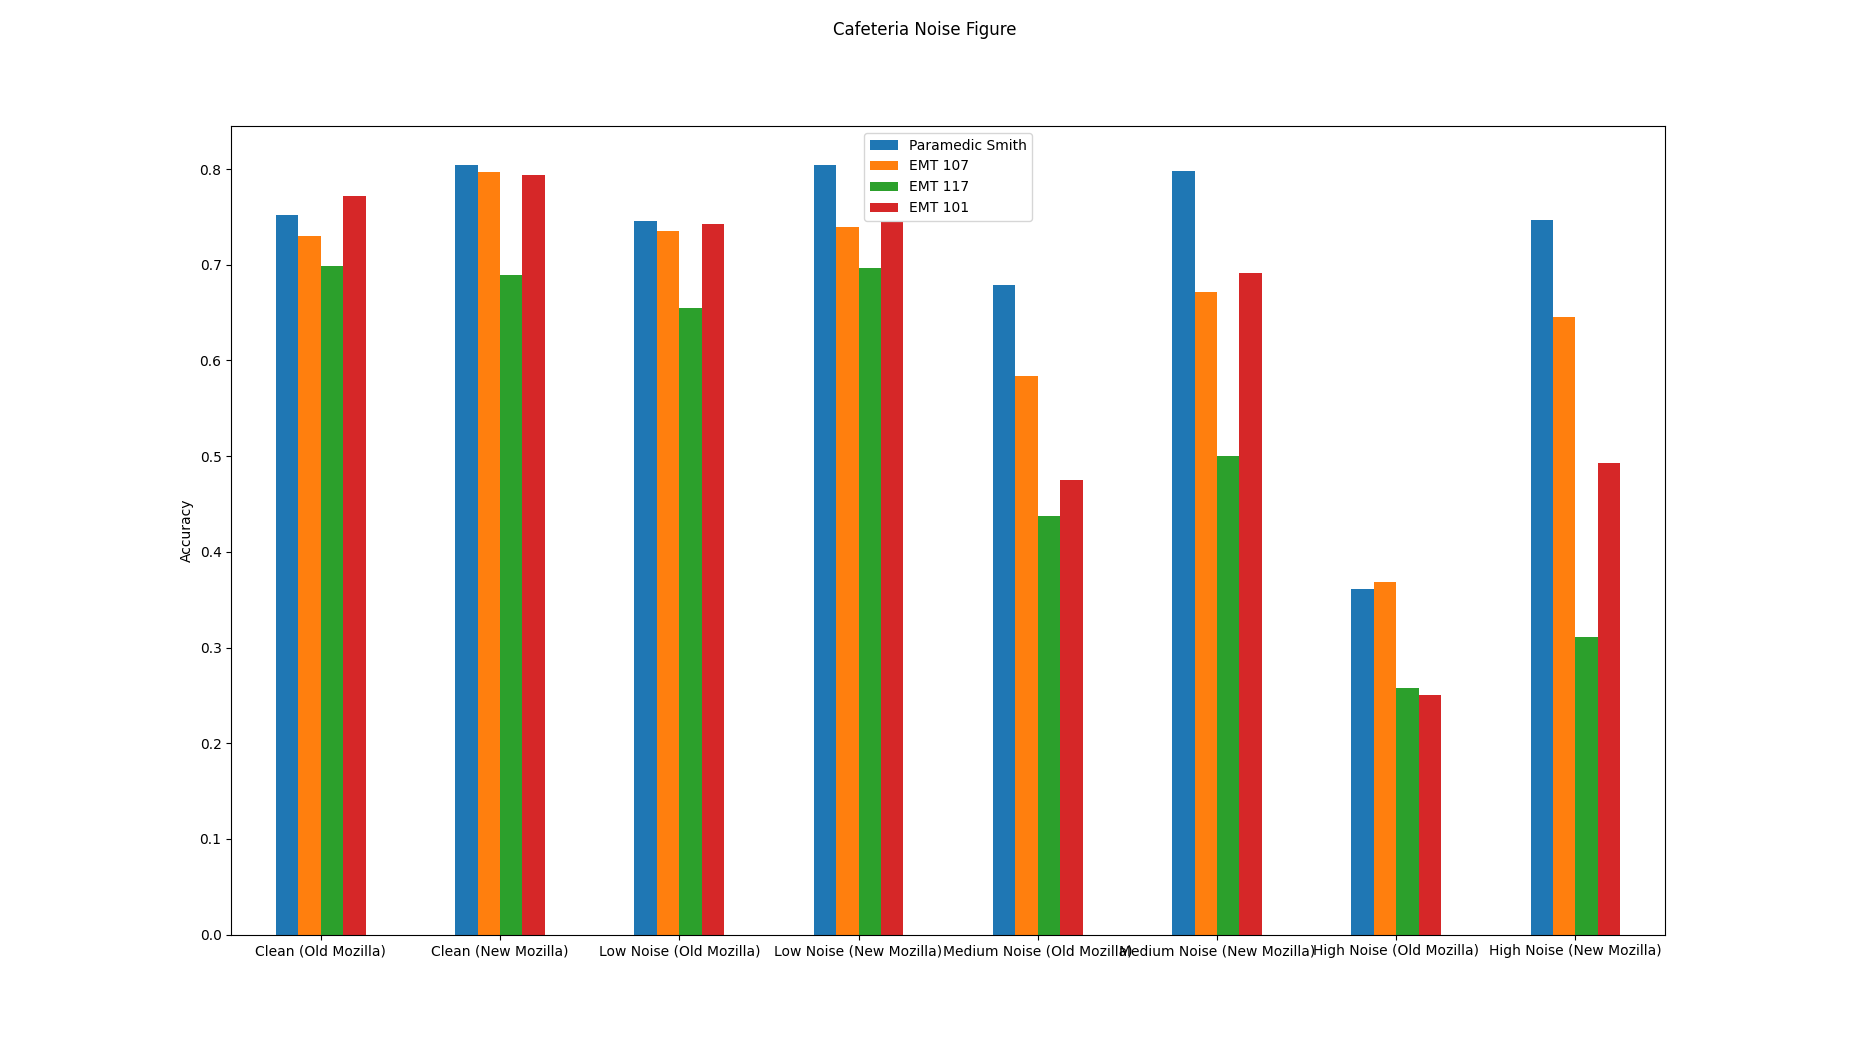
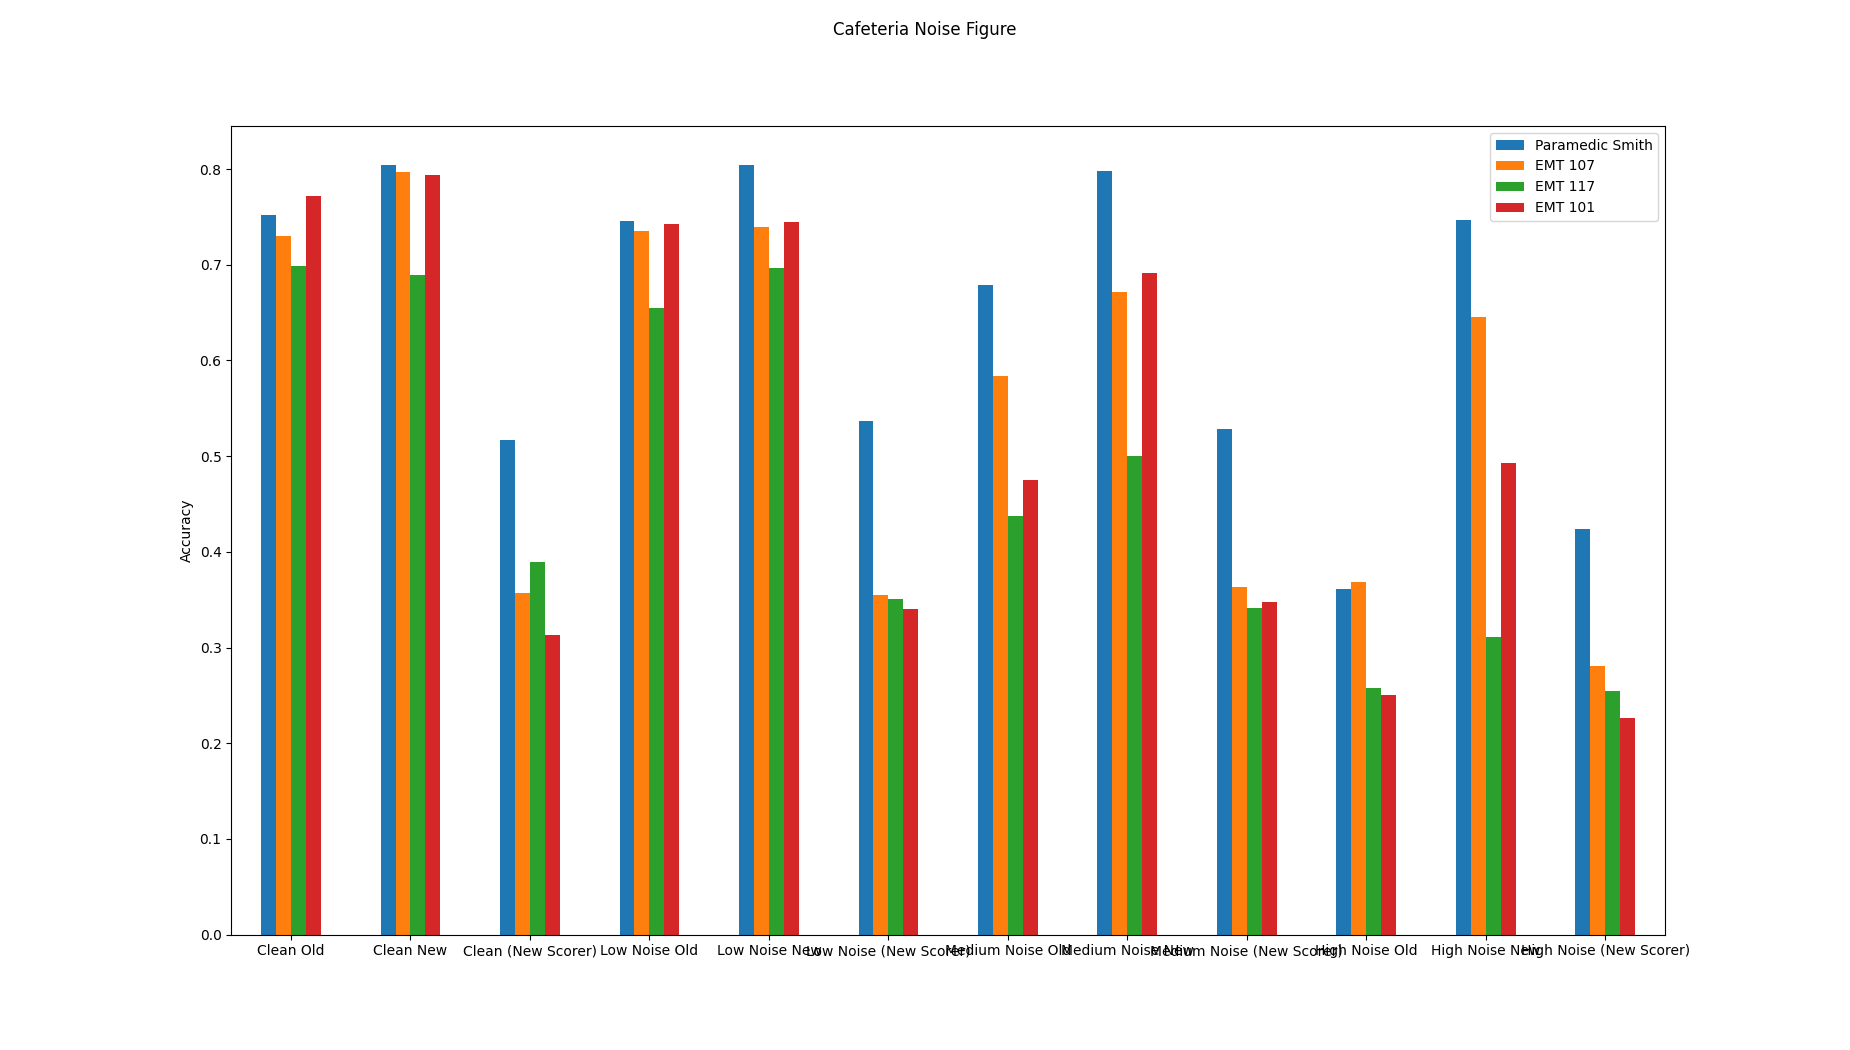
adding new scorer results

diff --git a/WER_generator_noise.py b/WER_generator_noise.py
@@ -1887,8 +1887,8 @@ if __name__ == '__main__':
     # #labels for average graph
     labels_ave = ('Cafeteria', 'People Talking', 'Sirens')
     # labels for three sub graphs
-    labels = ('Clean (Old Mozilla)', 'Clean (New Mozilla)', 'Clean (New Scorer)', 'Low Noise (Old Mozilla)', 'Low Noise (New Mozilla)', 'Low Noise (New Scorer)',
-              'Medium Noise (Old Mozilla)', 'Medium Noise (New Mozilla)', 'Medium Noise (New Scorer)', 'High Noise (Old Mozilla)', 'High Noise (New Mozilla)', 'High Noise (New Scorer)')
+    labels = ('Clean Old', 'Clean New', 'Clean (New Scorer)', 'Low Noise Old', 'Low Noise New', 'Low Noise (New Scorer)',
+              'Medium Noise Old', 'Medium Noise New', 'Medium Noise (New Scorer)', 'High Noise Old', 'High Noise New', 'High Noise (New Scorer)')
 
     labels_compare = ('Clean', 'Low Noise', 'Medium Noise', 'High Noise')
 
